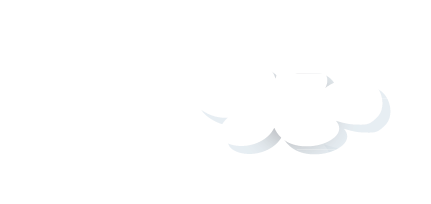
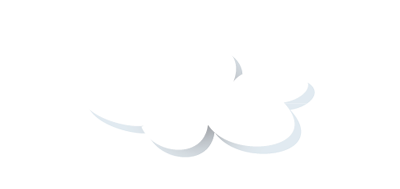
Improve header animation

diff --git a/index.html b/index.html
@@ -48,8 +48,8 @@
     <!-- Main jumbotron for a primary marketing message or call to action -->
     <div class="jumbotron" id="headerContainer">
       <img id="cloud1" class="img-responsive" src="files/design/nuage1.png" alt="" />
-      <!-- <img id="cloud2" class="img-responsive" src="files/design/nuage2.png" alt="" />
-      <img id="cloud3" class="img-responsive" src="files/design/nuage3.png" alt="" /> -->
+      <img id="cloud2" class="img-responsive" src="files/design/nuage2.png" alt="" />
+      <img id="cloud3" class="img-responsive" src="files/design/nuage3.png" alt="" />
       <div id="headerContent" class="container">
       	<div class="row">
           <div class="col-md-4">
@@ -60,7 +60,7 @@
             <p id="eventDate">12 & 13 avril 2014</p>
           </div>
            <div class="col-md-4">
-            <h1>Test 2</h1>
+            
           </div>
         </div>      
         

diff --git a/css/main.css b/css/main.css
@@ -23,21 +23,22 @@ body {
 	border:solid 3px #FFFFFF;
 	padding:20px;
 	color:#FFFFFF;
-	border-radius:10px;
 	text-align:center;
 	text-transform:uppercase;
 }
 #eventEdition{
 	background:#00B8F1;	
-	font-size:1em;
+	font-size:2em;
+	border-radius:40px 40px 40px 0px;
 }
 #eventEdition span{
 	text-transform:lowercase;
-	font-size:18px;
+	font-size:1em;
 }
 #eventDate{
 	background:#FB3099;
-	font-size:2em;
+	font-size:2.5em;
+	border-radius:80px 80px 0px 80px;
 }
 #footerContainer{
 	background:#B0D243;
@@ -47,19 +48,19 @@ body {
 
 #cloud1{
 	position:absolute;
-	top:100px;
-	left:-432px;
-	z-index: 2;
+	top:105px;
+	left:-400px;
+	z-index: 3;
 }
 #cloud2{
 	position:absolute;
-	top:100px;
-	left:-410px;
-	z-index: 1;
+	top:10px;
+	left:100px;
+	z-index: 2;
 }
 #cloud3{
 	position:absolute;
-	top:100px;
-	left:-485px;
-	z-index: 3;
+	bottom:10px;
+	right:100px;
+	z-index: 1;
 }

diff --git a/js/main.js b/js/main.js
@@ -9,18 +9,9 @@ $(document).ready(function(){
 
 function cloudAnimation(){
 	cloud1();
-	/*cloud2();
-	cloud3();*/
 }
 
 function cloud1(){
-	$("#cloud1").animate({left: widthWindow}, 10000).animate({left:"-432px"}, 0);
-	setTimeout("cloudAnimation()", 10000);
-}
-/*function cloud2(){
-	$("#cloud2").animate({left: widthWindow}, 20000).animate({left:"-410px"}, 0);
-	setTimeout("cloudAnimation()", 15000);
-}function cloud3(){
-	$("#cloud3").animate({left: widthWindow}, 300000).animate({left:"-485px"}, 0);
+	$("#cloud1").animate({left: widthWindow}, 30000).animate({left:"-400px"}, 0);
 	setTimeout("cloudAnimation()", 1000);
-}*/
+}
